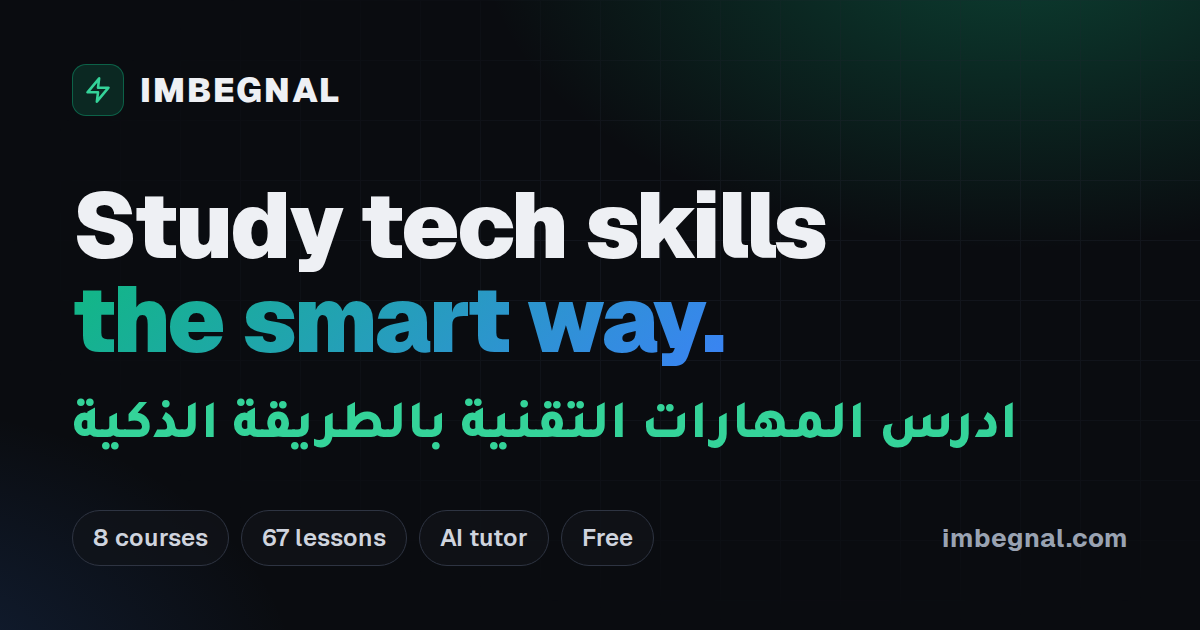
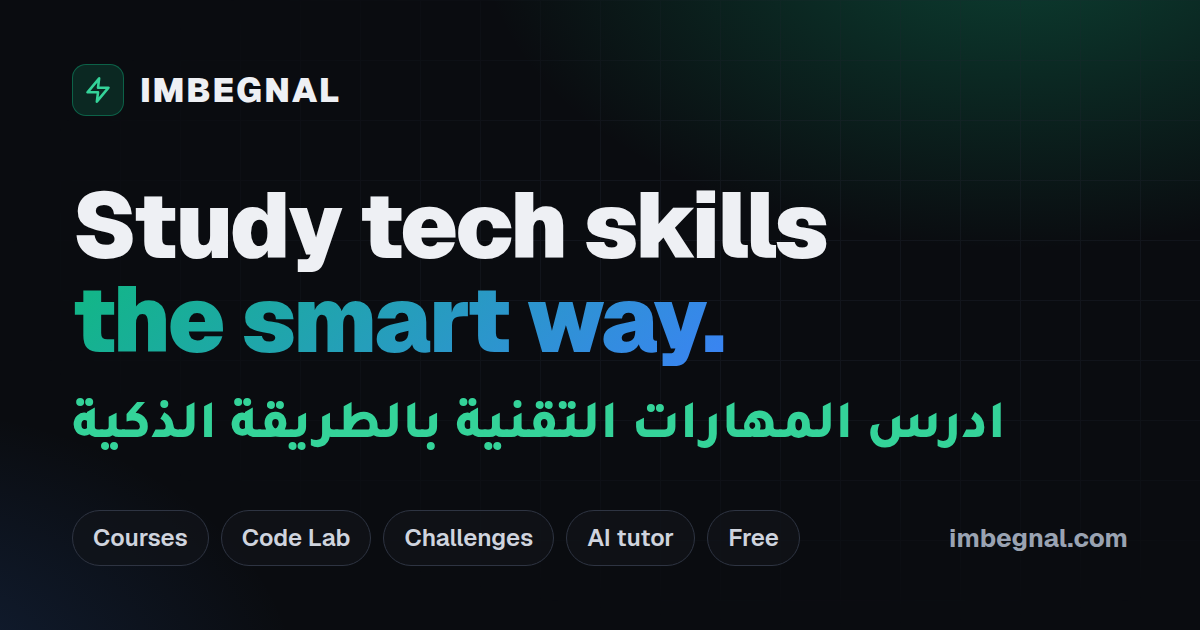
Share image: wording that does not go stale
app/opengraph-image.png advertised '8 courses' and '67 lessons'; the site
has 13 courses and 84 lessons. It is re-rendered from the same design with
pills that carry no counts (Courses, Code Lab, Challenges, AI tutor, Free).
PLATFORM.md's growth note drops its own stale lesson count.

Claude-Session: https://claude.ai/code/session_011A2bvv21Cryo76Uans6PdA

diff --git a/docs/PLATFORM.md b/docs/PLATFORM.md
@@ -416,8 +416,8 @@ device, or makes a deploy talk to a different Worker or database. New identifier
    certification pages (disclose clearly).
 4. **Sponsorships/GitHub Sponsors** for the open-source project; employer-sponsored tracks.
 
-**Growth**: lesson pages carry `LearningResource` JSON-LD and a sitemap, so each
-of the 67 lessons can rank in English and Arabic; Arabic tech content is
+**Growth**: lesson pages carry `LearningResource` JSON-LD and a sitemap, so every
+lesson can rank in English and Arabic; Arabic tech content is
 under-served. Add an OG image per course and submit the sitemap to Search Console.
 
 ## Known gaps / next steps
